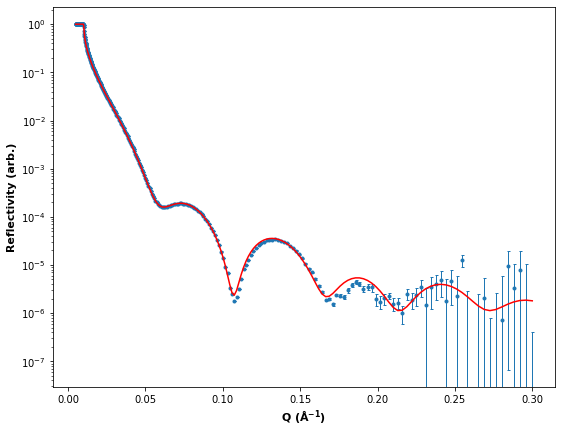
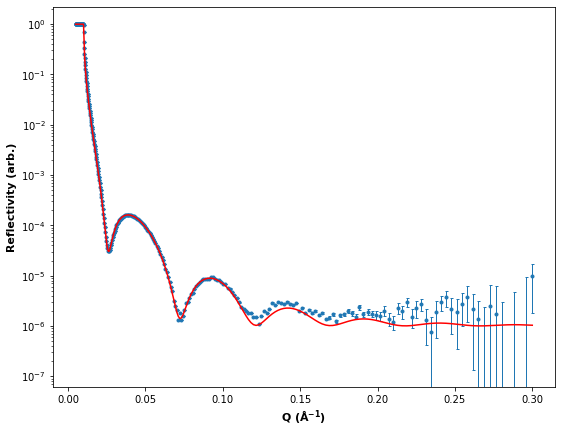
Updated results

diff --git a/comparison.py b/comparison.py
@@ -1,9 +1,8 @@
-import h5py
 import numpy as np
 import matplotlib.pyplot as plt
 
 from refnx.dataset  import ReflectDataset
-from refnx.reflect  import ReflectModel
+from refnx.reflect  import SLD, ReflectModel
 from refnx.analysis import Objective, GlobalObjective, CurveFitter
 
 from dynesty import NestedSampler
@@ -12,8 +11,8 @@ from dynesty import utils    as dyfunc
 
 from multiprocessing import Pool, cpu_count
 
-from structures import multiple_contrast_samples, thin_layer_samples_1, thin_layer_samples_2
-from structures import similar_sld_samples_1, similar_sld_samples_2, many_param_samples
+#from structures import multiple_contrast_samples, thin_layer_samples_1, thin_layer_samples_2
+#from structures import similar_sld_samples_1, similar_sld_samples_2, many_param_samples
 
 class Data:
     points = 300
@@ -33,26 +32,13 @@ class Data:
             models.append(model)
         
             q = np.logspace(np.log10(Data.q_min), np.log10(Data.q_max), Data.points)
-            r, r_error = Data.__add_noise(q, model(q))      
+            r, r_error = Data.__add_noise(q, model(q))    
             datasets.append([q, r, r_error])
 
         return models, datasets
     
     @staticmethod
     def __add_noise(q, r, file="./directbeam_noise.dat", constant=100, bkg_rate=5e-7):
-        """Adds background and sample noise to given reflectivity data using the direct beam sample.
-    
-        Args:
-            q (ndarray): the range of q (momentum transfer) values.
-            r (ndarray): the range of r (reflectance) values.
-            file (string): the file path to the directbeam_noise file.
-            constant (int): the sample noise constant.
-            bkg_rate (type): the background rate value.
-    
-        Returns:
-            Reflectance values with noise added.
-    
-        """
         #Try to load the beam sample file: exit the function if not found.
         direct_beam = np.loadtxt(file, delimiter=',')[:, 0:2]
     
@@ -70,31 +56,27 @@ class Data:
         return r_noisy, r_error
 
 class Fitting:
-    sld_bounds   = (0,6.2)
-    thick_bounds = (0,220)
-    rough_bounds = (1.5,6.5)
-    
     def __init__(self, models, datasets):
         self.datasets = [ReflectDataset(data) for data in datasets]
-        self.models   = [Fitting.__vary_model(model) for model in models]
+        self.models   = models
+        for model in models:
+            Fitting.__vary_model(model)
     
     @staticmethod
     def __vary_model(model):
-        components = model.structure.components
-        for i, component in enumerate(components[1:-1]): #Skip over Air/D20 and substrate
-            #Set the SLD, thickness and roughness to arbitrary initial values (within their bounds).
-            #component.sld.real.value = (Fitting.sld_bounds[1]   - Fitting.sld_bounds[0])   / 2
-            #component.thick.value    = (Fitting.thick_bounds[1] - Fitting.thick_bounds[0]) / 2
-            #component.rough.value    = (Fitting.rough_bounds[1] - Fitting.rough_bounds[0]) / 2
+        for component in model.structure.components[1:-1]: #Skip over Air/D20 and substrate
+            sld_bounds = (component.sld.real.value*0.75, component.sld.real.value*1.25)
+            component.sld.real.setp(vary=True, bounds=sld_bounds)
             
-            component.sld.real.setp(vary=True, bounds=Fitting.sld_bounds)
-            component.thick.setp(vary=True, bounds=Fitting.thick_bounds)
-            #component.rough.setp(vary=True, bounds=Fitting.rough_bounds)
-            
-        return model
+            thick_bounds = (component.thick.value*0.75, component.thick.value*1.25)
+            component.thick.setp(vary=True, bounds=thick_bounds)
+        
+            #Set the SLD and thickness to arbitrary initial values (within their bounds).
+            component.sld.real.value = sld_bounds[1]
+            component.thick.value    = thick_bounds[1]
     
     def __reset_objective(self):
-        #Create a list of objectives for each model and use it to create a global objective.
+        #Create a list of objectives for each model then use this list to create a global objective.
         self.objective = GlobalObjective([Objective(model, data) for (model, data) 
                                           in zip(self.models, self.datasets)])
     def fit_lbfgs(self):
@@ -109,13 +91,11 @@ class Fitting:
         print("--------------------- MCMC ---------------------")
         self.__reset_objective()
         fitter = CurveFitter(self.objective)
+        fitter.fit('differential_evolution')
         fitter.sample(burn)
         fitter.reset()
         fitter.sample(steps, nthin=nthin)
-        
-        #with h5py.File("chains.h5", "w") as file:
-        #    file.create_dataset("chain", data=fitter.chain)
-        
+    
         self.display_results()
         self.objective.corner()
         plt.show()
@@ -123,13 +103,15 @@ class Fitting:
     def fit_nested(self):
         print("--------------- Nested Sampling ----------------")
         self.__reset_objective()
-        pool = Pool(cpu_count()-1)
+        #pool = Pool(cpu_count()-1)
         ndim = len(self.objective.varying_parameters())
 
-        sampler = NestedSampler(self.logl, self.objective.prior_transform, ndim, pool=pool, queue_size=cpu_count())
-        sampler.run_nested(dlogz=70)
-        pool.close()
-        pool.join()
+        #sampler = NestedSampler(self.logl, self.objective.prior_transform, ndim, 
+        #                        pool=pool, queue_size=cpu_count())
+        sampler = NestedSampler(self.logl, self.objective.prior_transform, ndim)
+        sampler.run_nested()
+        #pool.close()
+        #pool.join()
         
         results = sampler.results
         samples, weights = results.samples, np.exp(results.logwt - results.logz[-1])
@@ -146,7 +128,7 @@ class Fitting:
         return self.objective.logl()
     
     def display_results(self):
-        print(self.objective)
+        #print(self.objective)
         print("Covariance Matrix:\n", self.objective.covar())
         self.plot_objective()
     
@@ -165,6 +147,15 @@ class Fitting:
         plt.ylabel('Reflectivity (arb.)',         fontsize=11, weight='bold')
         plt.yscale('log')
         plt.show()
+        
+def similar_sld_samples_2():
+    air       = SLD(0,   name="Air")
+    layer1    = SLD(3.0, name="Layer 1")(thick=50, rough=2)
+    layer2    = SLD(5.5, name="Layer 2")(thick=30, rough=6)
+    layer3    = SLD(6.0, name="Layer 3")(thick=35, rough=2)
+    substrate = SLD(2.047, name="Substrate")(thick=0, rough=2)
+    structure = air | layer1 | layer2 | layer3 | substrate
+    return [structure]
 
 if __name__ == "__main__":
     """
@@ -176,11 +167,11 @@ if __name__ == "__main__":
         similar_sld_samples_2
         many_param_samples
     """
-    structures = thin_layer_samples_1()
+    structures = similar_sld_samples_2()
     models, datasets = Data.generate(structures)
     
     model = Fitting(models, datasets) 
-    model.fit_lbfgs()
+    #model.fit_lbfgs()
     #model.fit_mcmc()
-    #model.fit_nested()
+    model.fit_nested()
     

diff --git a/structures.py b/structures.py
@@ -42,19 +42,19 @@ def thin_layer_samples_2():
 
 def similar_sld_samples_1():
     air       = SLD(0,   name="Air")
+    layer1    = SLD(0.9, name="Layer 1")(thick=80, rough=2)
+    layer2    = SLD(1.0, name="Layer 2")(thick=50, rough=6)
+    substrate = SLD(2.047, name="Substrate")(thick=0, rough=2)
+    structure = air | layer1 | layer2 | substrate
+    return [structure]
+
+def similar_sld_samples_2():
+    air       = SLD(0,   name="Air")
     layer1    = SLD(3.0, name="Layer 1")(thick=50, rough=2)
     layer2    = SLD(5.5, name="Layer 2")(thick=30, rough=6)
     layer3    = SLD(6.0, name="Layer 3")(thick=35, rough=2)
     substrate = SLD(2.047, name="Substrate")(thick=0, rough=2)
     structure = air | layer1 | layer2 | layer3 | substrate
-    return [structure]
-
-def similar_sld_samples_2():
-    air       = SLD(0,   name="Air")
-    layer1    = SLD(0.9, name="Layer 1")(thick=80, rough=2)
-    layer2    = SLD(1.0, name="Layer 2")(thick=50, rough=6)
-    substrate = SLD(2.047, name="Substrate")(thick=0, rough=2)
-    structure = air | layer1 | layer2 | substrate
     return [structure]
 
 def many_param_samples():
